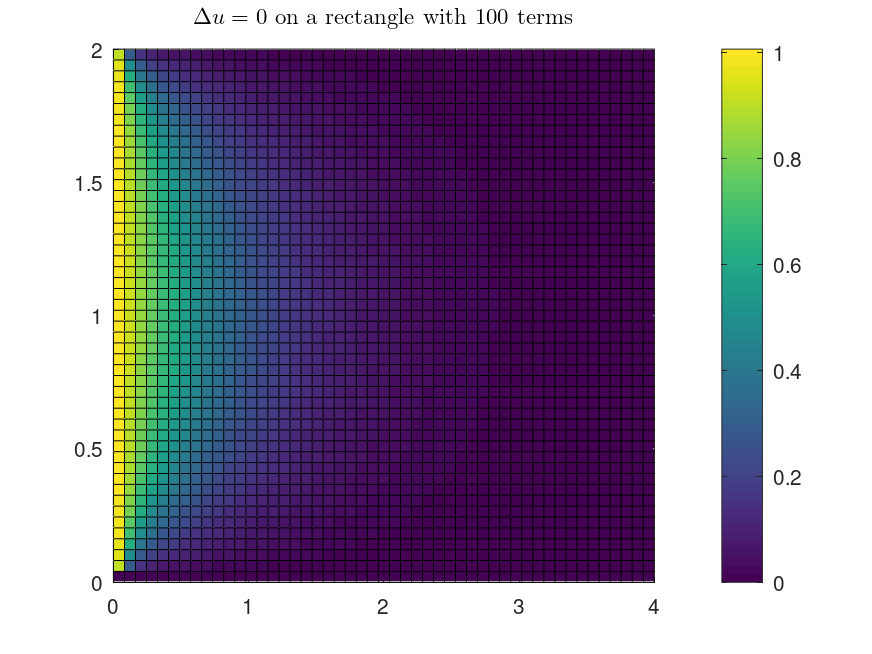
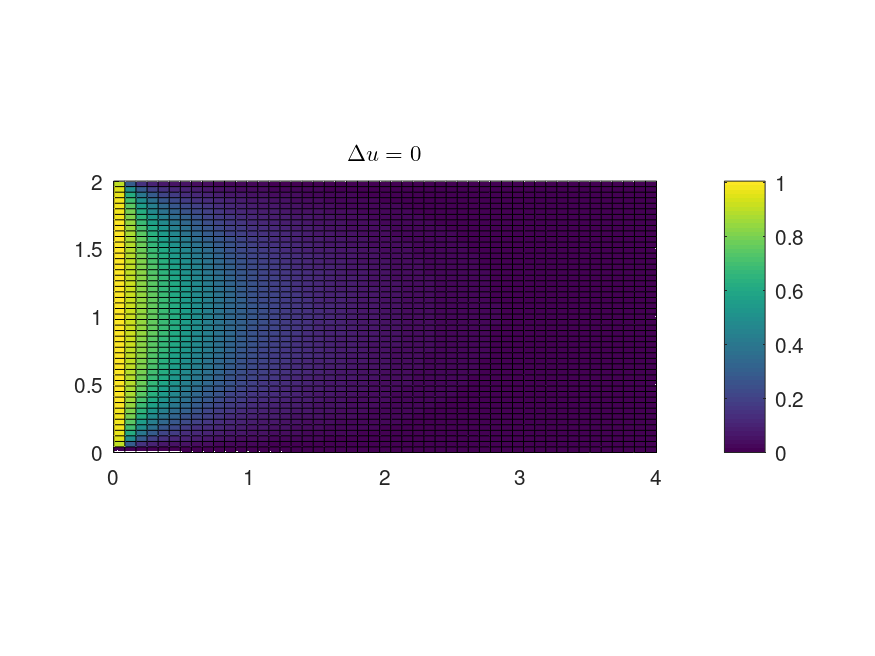
MATH5470: Updated Exam 2 take-home figure.

diff --git a/2022/fall/MATH5470_IntroToPDE/Exam2/problem_1.tex b/2022/fall/MATH5470_IntroToPDE/Exam2/problem_1.tex
@@ -113,7 +113,7 @@ u(0, y) &= 1, \; u(4, y) = 0
   u(x, y) = \sum\limits_{n=1}^{\infty} \frac{4}{(2n - 1) \pi \sinh{\left[-2(2n - 1) \pi\right]}} \sinh{\left[ \frac{(2n - 1) \pi (x - 4)}{2} \right]} \sin{\left[\frac{(2n - 1) \pi y}{2}\right]}
   $$
 
-  \vfill
+  \ \\\\
   We plot an approximation to this solution below:
 
   \begin{figure}[h]

diff --git a/2022/fall/MATH5470_IntroToPDE/Exam2/problem_1.m b/2022/fall/MATH5470_IntroToPDE/Exam2/problem_1.m
@@ -19,6 +19,7 @@ surf(X,Y,Z);
 title('$\Delta u = 0$', 'interpreter', 'latex', 'VerticalAlignment', 'bottom');
 colorbar();
 view(2);
+daspect([1 1])
 
 print('-dpng', 'problem_1');
 
